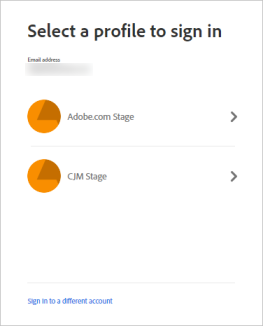
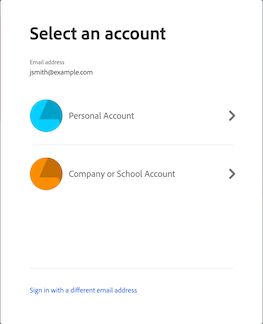
Updated login description
Customers in beta will use Federated or Enterprise ID. Previous flow showed Business ID (not yet rolled out to our customers).

diff --git a/help/get-started.md b/help/get-started.md
@@ -7,7 +7,7 @@ role: Business Practitioner, Leader
 
 To get started using the solution, use your access to the beta program and log in at [https://experience.adobe.com/#/assets](https://experience.adobe.com/#/assets).
 
-When logging in, you are prompted to select a profile after you provide the credentials. If you are part of some other Experience Cloud program, you may have more than profile to select from. To access Assets Essentials beta program, select `CJM Stage`.
+When logging in, you might be prompted to select an account after you provide the credentials. In this case, select "Company or School Account" to proceed.
 
 ![Profile selection when logging in](assets/login-select-profile.png)
 
